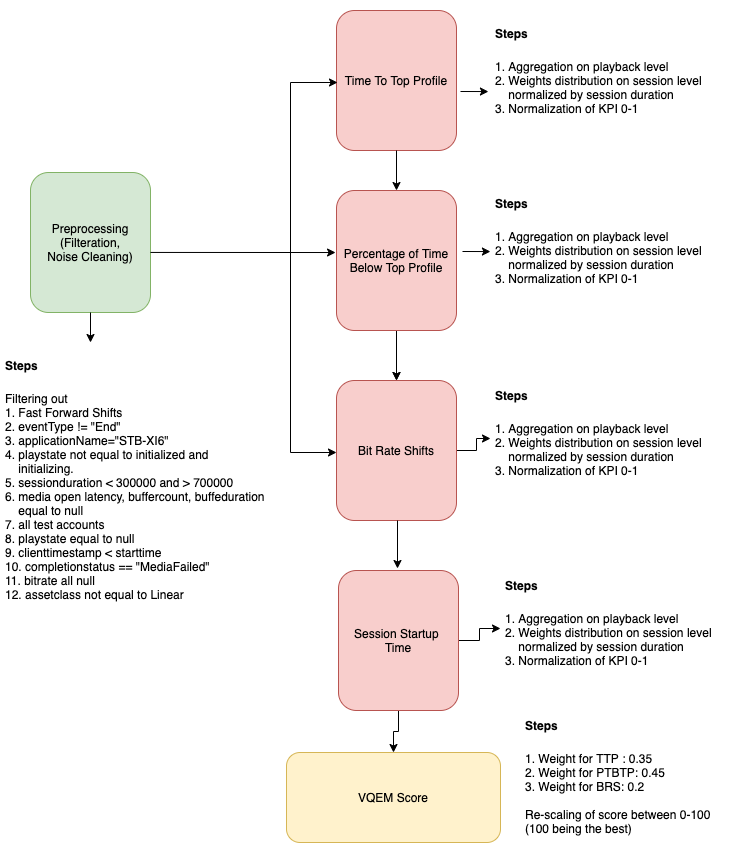
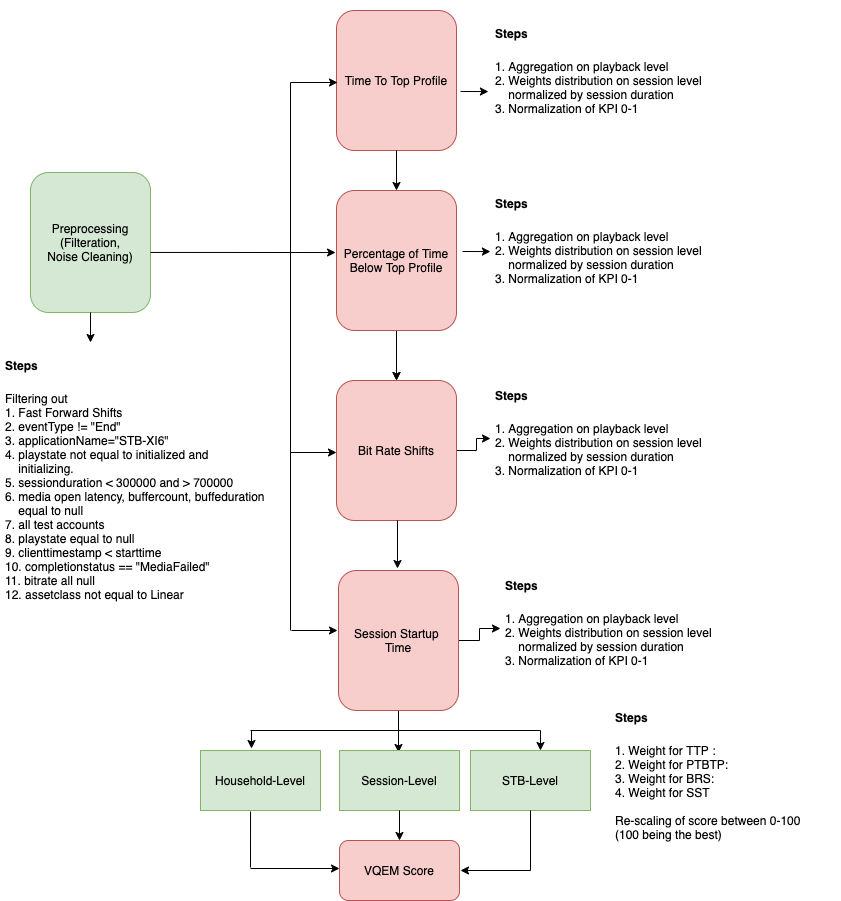
update chart

Changed region(s): [[0.0306, 0.0, 0.9481, 1.0], [0.0, 0.3958, 0.367, 0.7002], [0.3364, 0.6698, 0.367, 0.7002]]

diff --git a/src/job4/session_startup_time.py b/src/job4/session_startup_time.py
@@ -1,0 +1,100 @@
+from pyspark.sql.functions import lit, when
+from config.config import config
+from pyspark.sql.functions import explode
+from pyspark.sql import functions as func
+from pyspark.sql.functions import col, array_contains, element_at
+from pyspark.sql.window import Window
+from pyspark.sql.functions import *
+from pyspark.sql.types import DoubleType, IntegerType, LongType
+from pyspark.sql.functions import array_position
+from pyspark.sql.functions import arrays_zip
+import re
+from preprocessor.preprocess import preprocessor
+
+
+class SST:
+
+    def __init__(self):
+        self.con = config()
+        self.obj = preprocessor(self.con.context)
+        self.spark = self.con.spark
+        self.min = 0
+        self.max = 0.00009716
+
+    def __session_startup_time__(self, raw_df):
+
+        raw_df = raw_df.withColumn("stp_bitrate", raw_df["bitrate"].getItem(0)).\
+            withColumn("stp_clientgeneratedtimestamp", raw_df["clientGeneratedTimestamp"].getItem(0)).\
+            withColumn("stp_time", (col("stp_clientgeneratedtimestamp") -
+                                                  col("starttime")).cast(LongType()))
+        raw_df = raw_df.withColumn("percentage_of_stp_time", col("stp_time")/col("sessionduration"))
+
+        return raw_df
+
+    def __weighted_session_startup_time__(self, raw_df):
+
+        total_session_duration = raw_df.groupBy("deviceSourceId", "pluginSessionId").sum("sessionduration"). \
+            withColumnRenamed("sum(sessionduration)", "total_session_duration")
+
+        raw_df_with_total_session_duration = self.obj.join_two_frames(raw_df, total_session_duration, "inner",
+                                                                      ["deviceSourceId",
+                                                                       "pluginSessionId"
+                                                                       ]). \
+            withColumn("weights", func.round(col("sessionduration") / col("total_session_duration"), 10)). \
+            withColumn("dot_product_STP", func.when(col("weights") == 1.0, col("percentage_of_stp_time")). \
+                       otherwise(round(col("percentage_of_stp_time") * col("weights"), 10)).cast(DoubleType()))
+
+        return raw_df_with_total_session_duration.groupBy("deviceSourceId", "pluginSessionId").sum("dot_product_STP"). \
+            withColumnRenamed("sum(dot_product_STP)", "weighted_average_STP"). \
+            filter(col("weighted_average_STP") >= 0)
+
+    def __weighted_STP_average_by_device__(self, raw_df):
+        return raw_df.groupBy("deviceSourceId").avg("weighted_average_STP"). \
+            withColumnRenamed("avg(weighted_average_STP)", "weighted_average_STP")
+
+    def __normalized_stp__(self, raw_stp):
+        raw_stp = raw_stp.withColumn("weighted_average_stp",
+                                       func.when(col("weighted_average_stp") > self.max, self.max).\
+                                       otherwise(col("weighted_average_stp")))
+
+        return raw_stp.withColumn("normalized_stp",
+                                   ((col("weighted_average_stp") - self.min) / ((self.max) - self.min)))
+
+    def __initial_method__(self):
+
+        raw_df = self.obj.get_data("default.vqem_base_table", ["accountSourceId",
+                                                               "deviceSourceId",
+                                                               "starttime",
+                                                               "stream_type",
+                                                               "sessionduration",
+                                                               "gracenoteId",
+                                                               "bitrate",
+                                                               "pluginSessionId",
+                                                               "playbackId",
+                                                               "ff_shifts_present",
+                                                               "clientGeneratedTimestamp_flattened",
+                                                               "clientGeneratedTimestamp",
+                                                               "bitrate_flattened",
+                                                               "az_insert_ts"])
+
+        session_startup_time = self.__session_startup_time__(raw_df.select("deviceSourceId",
+                                                                           "pluginSessionId",
+                                                                           "playbackId",
+                                                                           "starttime",
+                                                                           "sessionduration",
+                                                                           "bitrate",
+                                                                           "clientGeneratedTimestamp"))
+
+        self.spark.sql("DROP TABLE IF EXISTS default.vqem_session_start_time_stage_4_detail")
+        session_startup_time.write.saveAsTable("default.vqem_session_start_time_stage_4_detail")
+
+        weighted_average_stp_session = self.__weighted_session_startup_time__(session_startup_time)
+
+        weighted_average_stp = self.__weighted_STP_average_by_device__(weighted_average_stp_session)
+
+        normalized_average_stp = self.__normalized_stp__(weighted_average_stp)
+
+        self.spark.sql("DROP TABLE IF EXISTS default.vqem_session_start_time_stage_4")
+        normalized_average_stp.write.saveAsTable("default.vqem_session_start_time_stage_4")
+        
+        return True

diff --git a/src/main_entry.py b/src/main_entry.py
@@ -1,8 +1,8 @@
 from job1.data_preprocessing import parsing
 from job2.Time_To_Top_Profile import TTTP
 from job3.percentage_below_top_profile import PTBTP
-from job4.bit_rate_shifts import BRS
-from job5.session_startup_time import SST
+from job4.session_startup_time import SST
+from job5.bit_rate_shifts import BRS
 from job6.vqem_score import VQEM
 from pytz import timezone
 from datetime import datetime, timedelta
@@ -39,27 +39,27 @@ def main(run_date):
     else:
         print("Percentage Below Top Profile Job Crashed")
 
-    job_4 = BRS()
+    job_4 = SST()
     status = job_4.__initial_method__()
+
+    if status == True:
+        print("Session Start Time Job Successfully Completed")
+    else:
+        print("Session Start Time Job Crashed")
+
+    job_5 = BRS()
+    status = job_5.__initial_method__()
 
     if status == True:
         print("Bitrate Shifts Job Successfully Completed")
     else:
         print("Bitrate Shifts Job Crashed")
 
-    # job_5 = SST()
-    # status = job_5.__initial_method__()
-    #
-    # if status == True:
-    #     print("Session Start Time Job Successfully Completed")
-    # else:
-    #     print("Session Start Time Job Crashed")
-
 if __name__ == '__main__':
 
     fmt = "%Y-%m-%d"
     tz = timezone('EST')
     current_date = datetime.now(tz).strftime(fmt)
-    run_date = datetime.strptime(current_date, "%Y-%m-%d") + timedelta(days=-8)
+    run_date = datetime.strptime(current_date, "%Y-%m-%d") + timedelta(days=-1)
     main(run_date)
 
